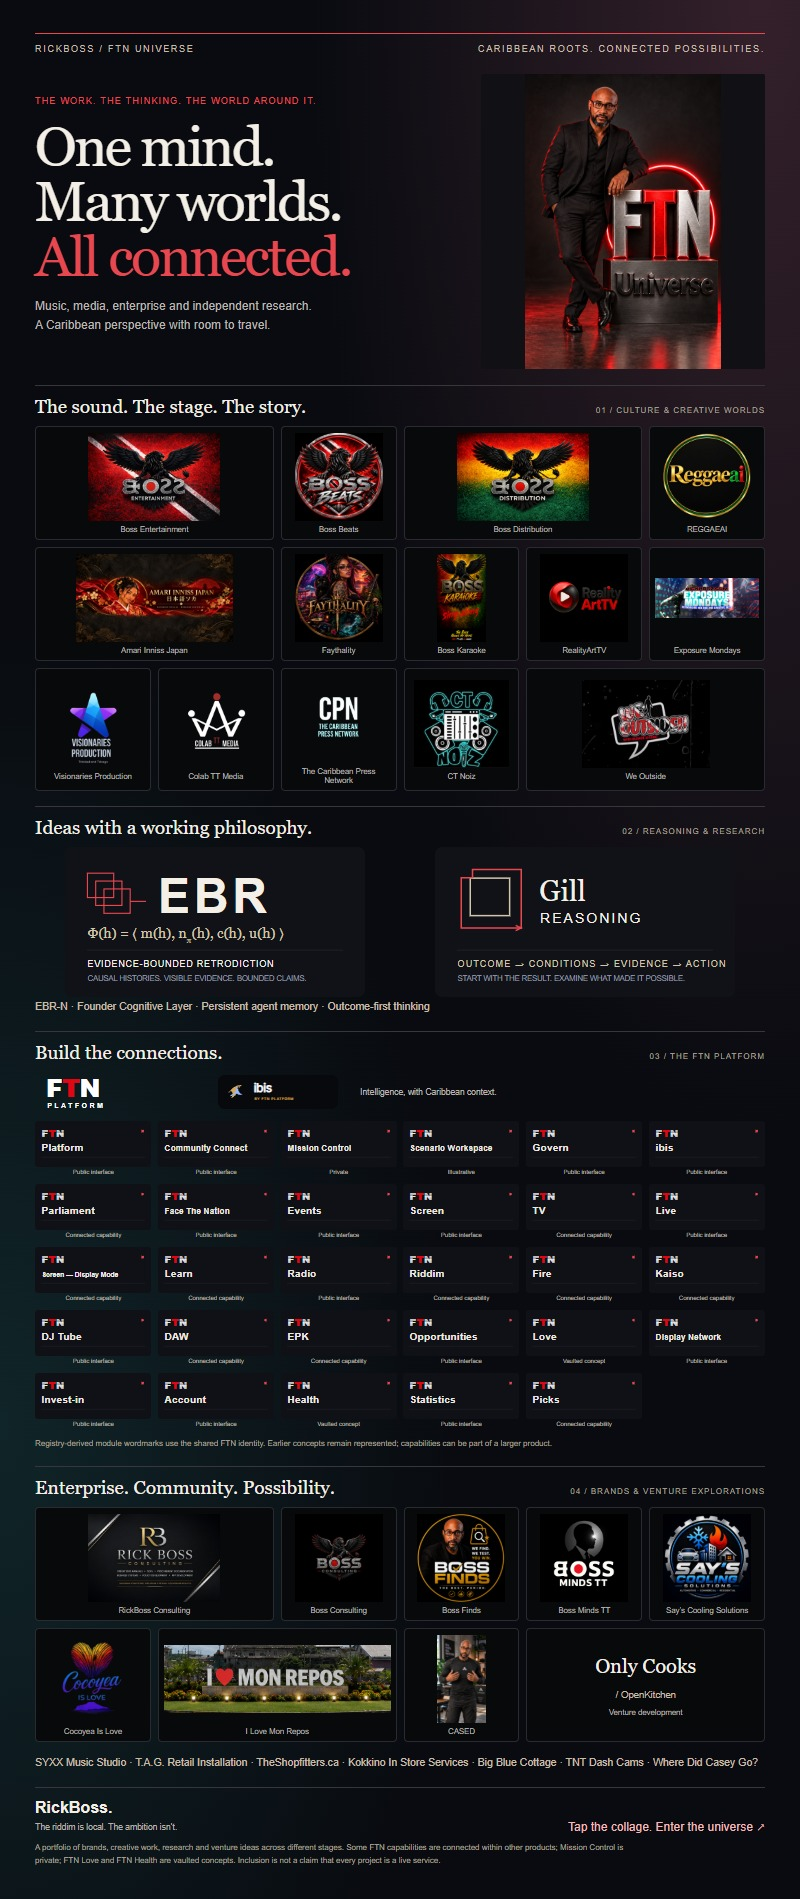
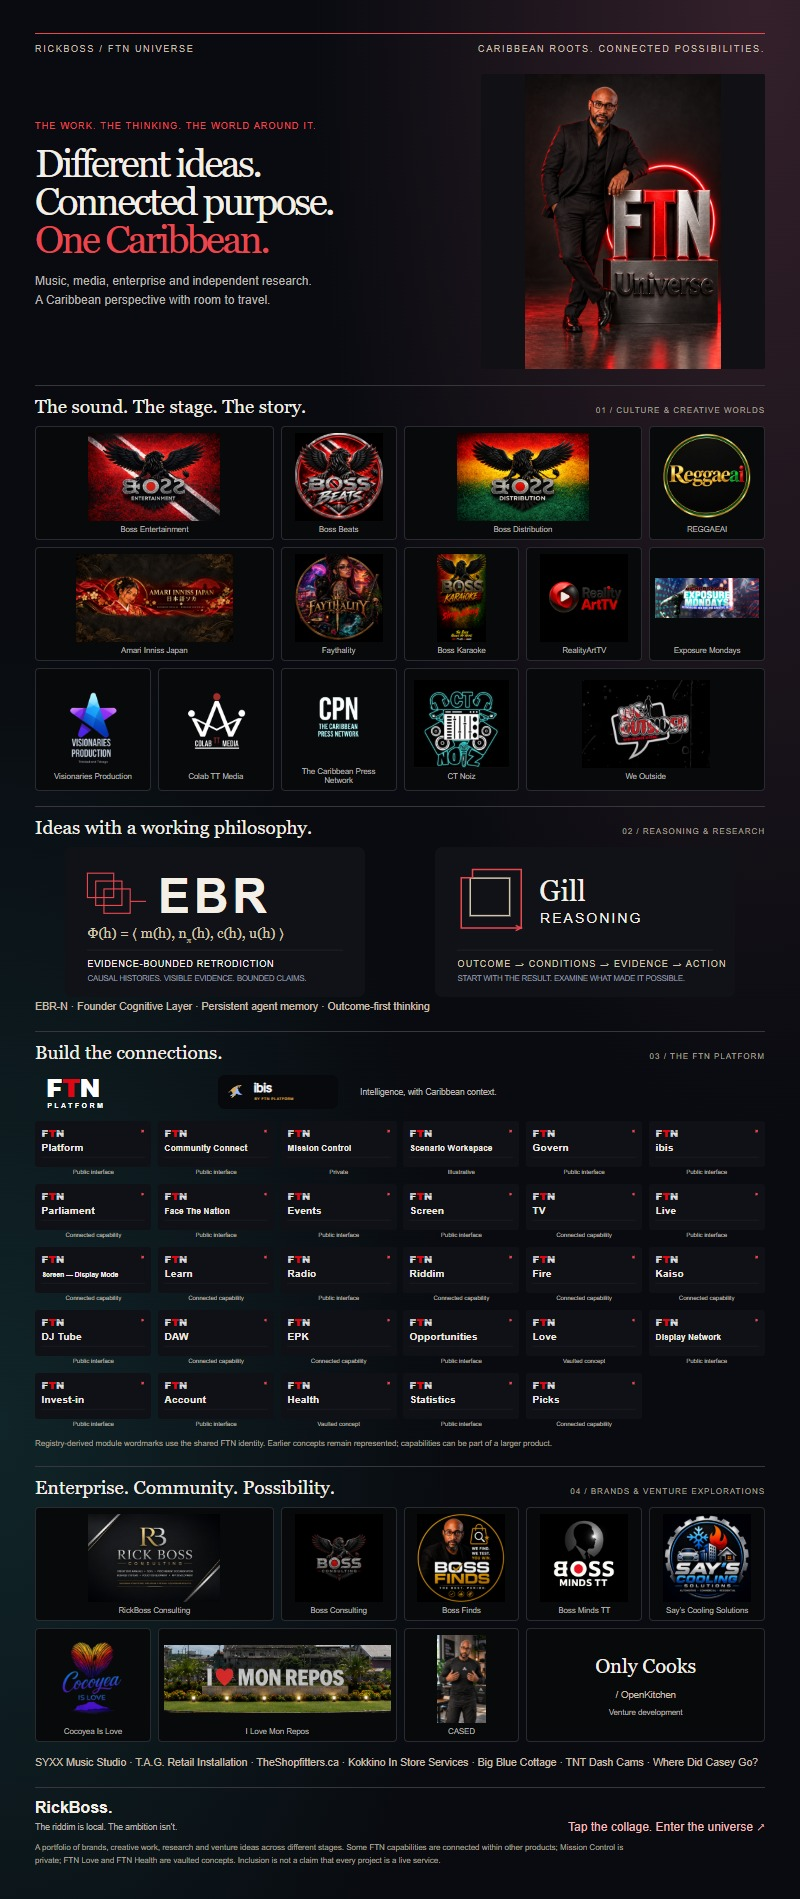
Use connected Caribbean purpose headline on RickBoss pages

Changed region(s): [[0.0312, 0.0311, 0.4375, 0.1864]]

diff --git a/rickboss/index.html b/rickboss/index.html
@@ -18,7 +18,7 @@
 <header class="masthead"><div class="rb-wrap masthead-inner"><a class="wordmark" href="#main" aria-label="RickBoss, back to top">RickBoss<span aria-hidden="true">.</span></a><nav aria-label="Main navigation"><a href="#work">The work</a><a href="#thinking">The thinking</a><a href="#universe">The universe</a></nav><a class="header-contact" href="#connect">Let’s connect <span aria-hidden="true">↗</span></a></div></header>
 <main id="main">
 <section class="hero rb-wrap" aria-labelledby="hero-title"><div class="hero-topline"><span class="eyebrow">Trinidad &amp; Tobago · Outward looking. Deeply rooted.</span><span class="edition">The RickBoss universe / 01</span></div>
-<div class="hero-composition"><div class="hero-copy"><p class="hero-intro">Producer. Founder. Independent mind.</p><h1 id="hero-title">Culture.<br>Intelligence.<br><span>Possibility.</span></h1><p class="hero-description">I’m RickBoss. I connect music, media, research and technology to build something bigger than the sum of its parts.</p><a class="button button-light" href="#work">Step into my world <span aria-hidden="true">↘</span></a></div>
+<div class="hero-composition"><div class="hero-copy"><p class="hero-intro">Producer. Founder. Independent mind.</p><h1 id="hero-title">Different ideas.<br>Connected purpose.<br><span>One Caribbean.</span></h1><p class="hero-description">I’m RickBoss. I connect music, media, research and technology to build something bigger than the sum of its parts.</p><a class="button button-light" href="#work">Step into my world <span aria-hidden="true">↘</span></a></div>
 <figure class="hero-visual" id="hero-visual"><img src="/assets/rickboss/rickboss-ftn-universe-v3.png" width="1024" height="1536" alt="RickBoss promotional portrait in a charcoal suit beside the FTN Universe sculpture" fetchpriority="high"></figure></div>
 <div class="hero-foot"><p>Caribbean by origin.<br><strong>Connected by design.</strong></p><a href="#choose">Find your way in <span aria-hidden="true">↓</span></a><p class="hero-foot-note">A body of work.<br>A way of seeing what comes next.</p></div></section>
 <aside class="universe-invitation rb-wrap"><a href="/rickboss/universe/"><span>See the universe in one frame</span><strong>The brands. The ideas. The connections. ↗</strong></a></aside>
